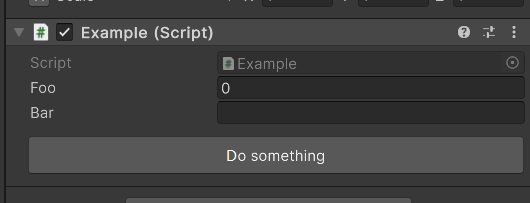
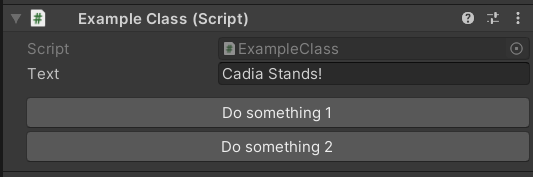
upd InspectorButton

diff --git a/Code/Editor/Engine/MethodButtonsEditor.cs b/Code/Editor/Engine/MethodButtonsEditor.cs
@@ -6,34 +6,57 @@ using OlegHcp.CSharp;
 using OlegHcp.Inspector;
 using UnityEditor;
 using UnityEngine;
-using UnityObject = UnityEngine.Object;
 
 namespace OlegHcpEditor.Engine
 {
-    public abstract class BaseEditor<T> : Editor<T>, IReadOnlyList<T> where T : UnityObject
+    public abstract class MethodButtonsEditor : Editor
     {
         private static Dictionary<Type, (MethodInfo method, InspectorButtonAttribute a)[]> _globalStorage;
 
         private (MethodInfo method, InspectorButtonAttribute a)[] _methods;
 
+        public override void OnInspectorGUI()
+        {
+            DrawDefaultInspector();
+            DrawMethodButtons();
+        }
+
         protected void DrawMethodButtons()
         {
             var methods = GetMethodList();
 
-            if (methods.Length == 0 || targets.Count > 1)
+            if (methods.Length == 0)
                 return;
 
             EditorGUILayout.Space();
 
-            UnityObject targetObject = serializedObject.targetObject;
+            Span<bool> pressed = stackalloc bool[methods.Length];
 
             for (int i = 0; i < methods.Length; i++)
             {
                 var (method, a) = methods[i];
                 string buttonName = a.ButtonName.IsNullOrEmpty() ? method.Name : a.ButtonName;
 
-                if (GUILayout.Button(buttonName, GUILayout.Height(a.Size)))
-                    method.Invoke(targetObject, null);
+                pressed[i] = GUILayout.Button(buttonName, GUILayout.Height(a.Size));
+            }
+
+            for (int i = 0; i < pressed.Length; i++)
+            {
+                if (!pressed[i])
+                    continue;
+
+                MethodInfo method = methods[i].method;
+
+                if (method.IsStatic)
+                {
+                    method.Invoke(null, null);
+                    continue;
+                }
+
+                for (int j = 0; j < targets.Length; j++)
+                {
+                    method.Invoke(targets[j], null);
+                }
             }
         }
 

diff --git a/Code/Runtime/OlegHcp/Inspector/README.md b/Code/Runtime/OlegHcp/Inspector/README.md
@@ -1,21 +1,34 @@
 ## InspectorButtonAttribute
 
 ```csharp
+using System;
 using OlegHcp.Inspector;
 using UnityEngine;
 
-public class Example : MonoBehaviour
+public class ExampleClass : MonoBehaviour
 {
     [SerializeField]
-    private int _foo;
-    [SerializeField]
-    private string _bar;
+    private string _text;
 
-    [InspectorButton("Do something", 30f)]
-    private void MyMethod()
+    [InspectorButton("Do something 1", 25f)]
+    private void ExampleMethod1()
+    {
+        Debug.Log(_text);
+    }
+
+    [InspectorButton("Do something 2", 25f)]
+    private static void ExampleMethod2()
+    {
+        Debug.Log(DateTime.Now);
+    }
+
+#if UNITY_EDITOR
+    [UnityEditor.CustomEditor(typeof(ExampleClass)), UnityEditor.CanEditMultipleObjects]
+    private class Editor : OlegHcpEditor.Engine.MethodButtonsEditor
     {
 
     }
+#endif
 }
 ```
 
